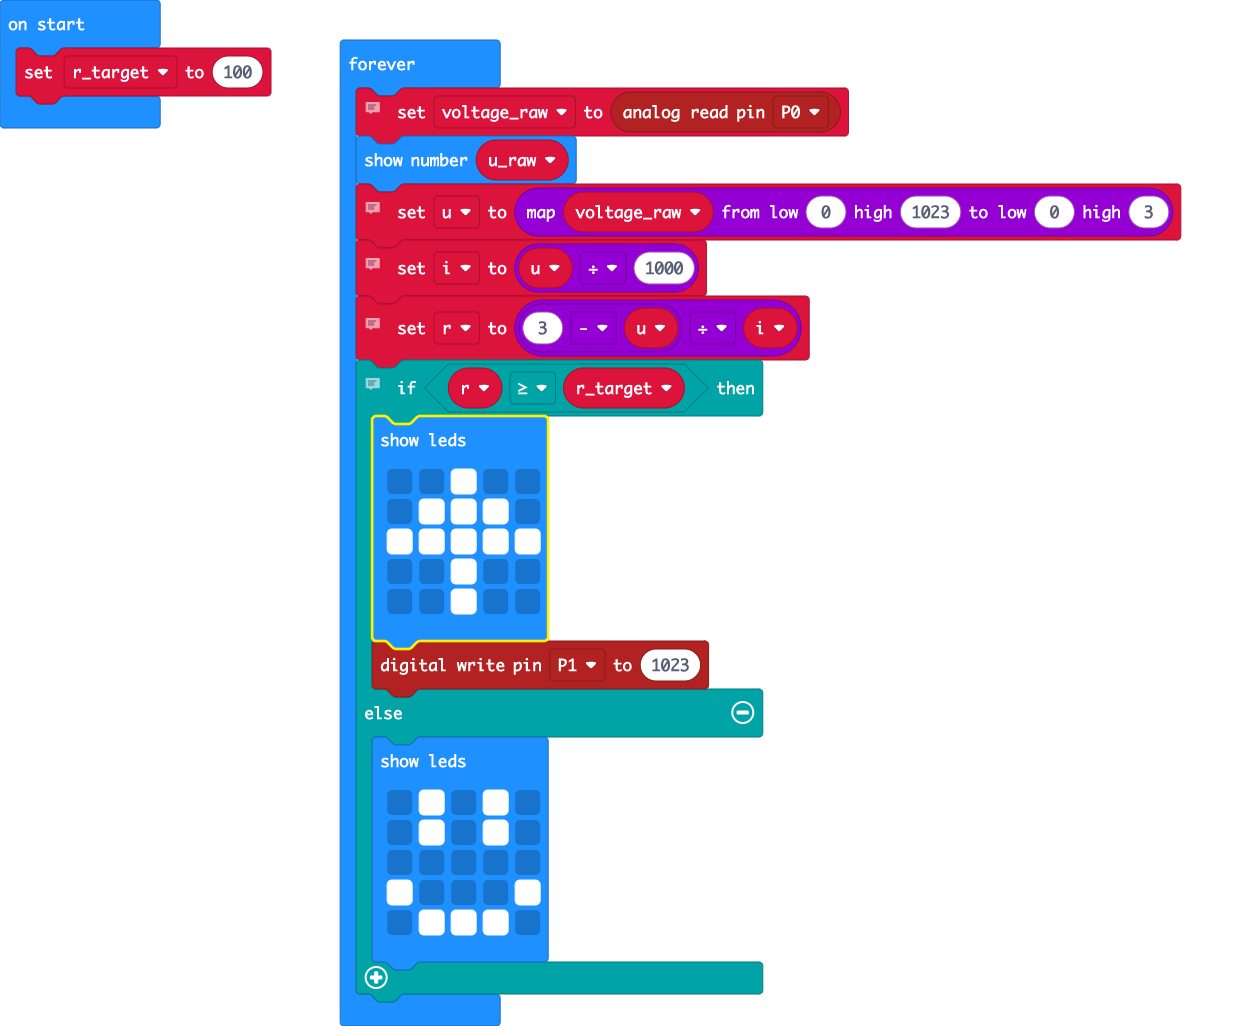
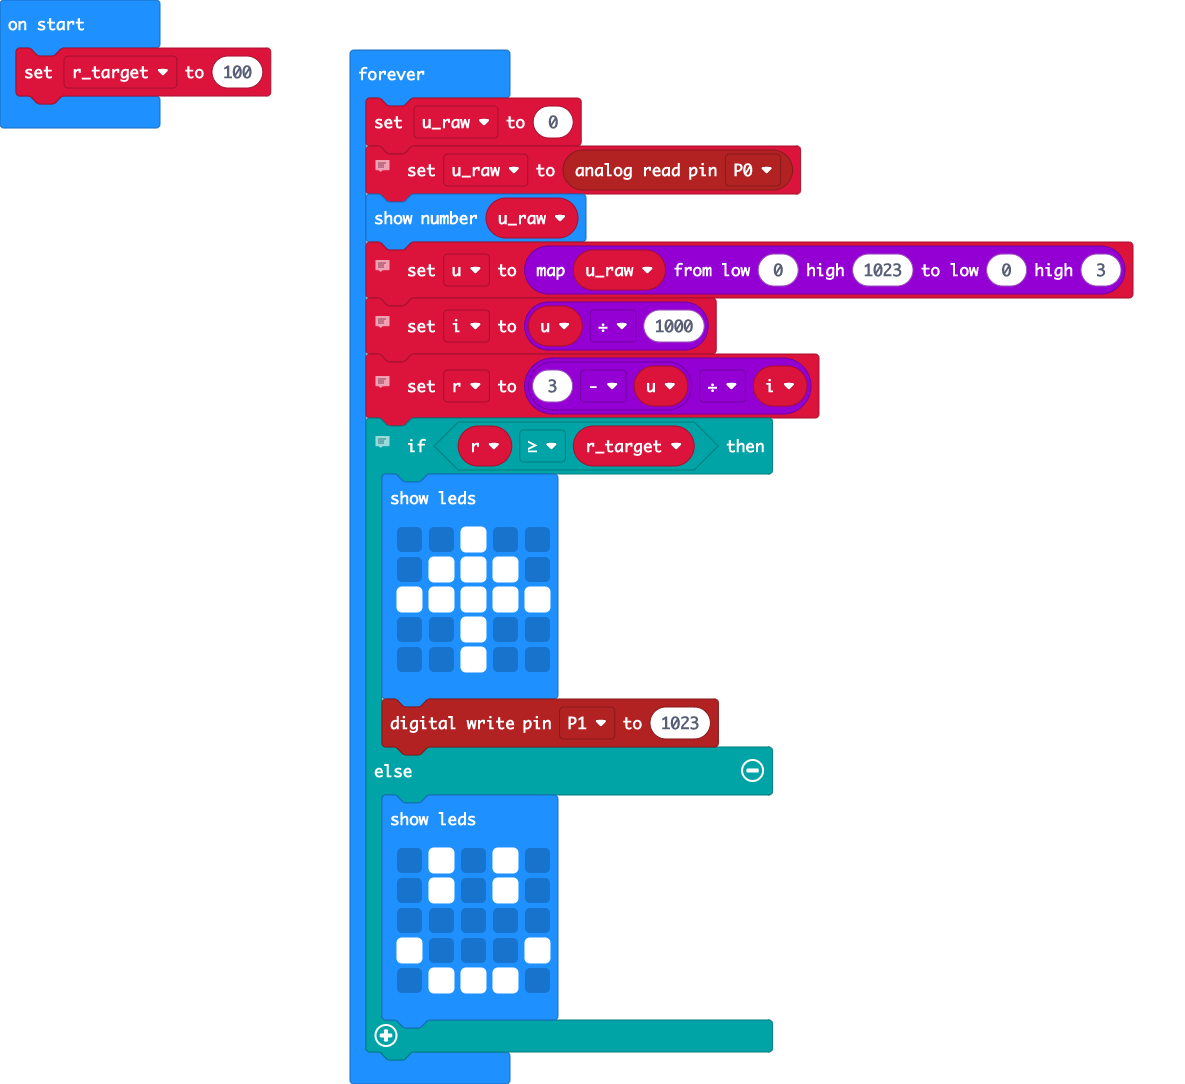
renamed U

Changed region(s): [[0.0, 0.0, 0.9679, 1.0]]

diff --git a/main.ts b/main.ts
@@ -1,15 +1,15 @@
 let r = 0
 let i = 0
 let u = 0
-let voltage_raw = 0
+let u_raw = 0
 let r_target = 100
 basic.forever(function () {
-    let u_raw = 0
+    u_raw = 0
     // imports amount of voltage, from 0-1023
-    voltage_raw = pins.analogReadPin(AnalogPin.P0)
+    u_raw = pins.analogReadPin(AnalogPin.P0)
     basic.showNumber(u_raw)
     // maps amount of voltage to a 0-3 scale
-    u = Math.map(voltage_raw, 0, 1023, 0, 3)
+    u = Math.map(u_raw, 0, 1023, 0, 3)
     // calculates current
     i = u / 1000
     // calculates resistance

diff --git a/main.py b/main.py
@@ -1,17 +1,17 @@
 r = 0
 i = 0
 u = 0
-voltage_raw = 0
+u_raw = 0
 r_target = 100
 
 def on_forever():
-    global voltage_raw, u, i, r
+    global u_raw, u, i, r
     u_raw = 0
     # imports amount of voltage, from 0-1023
-    voltage_raw = pins.analog_read_pin(AnalogPin.P0)
+    u_raw = pins.analog_read_pin(AnalogPin.P0)
     basic.show_number(u_raw)
     # maps amount of voltage to a 0-3 scale
-    u = Math.map(voltage_raw, 0, 1023, 0, 3)
+    u = Math.map(u_raw, 0, 1023, 0, 3)
     # calculates current
     i = u / 1000
     # calculates resistance
@@ -19,19 +19,19 @@ def on_forever():
     # triggers on too high resistance
     if r >= r_target:
         basic.show_leds("""
-            . # . . .
-                        . # . # .
-                        . # . # .
-                        . # . # .
-                        . # . # .
+            . . # . .
+                        . # # # .
+                        # # # # #
+                        . . # . .
+                        . . # . .
         """)
         pins.digital_write_pin(DigitalPin.P1, 1023)
-    else: 
+    else:
         basic.show_leds("""
-                    . # . . .
-                                . # . # .
-                                . # . # .
-                                . # . # .
-                                . # . # .
-                """)
+            . # . # .
+                        . # . # .
+                        . . . . .
+                        # . . . #
+                        . # # # .
+        """)
 basic.forever(on_forever)
